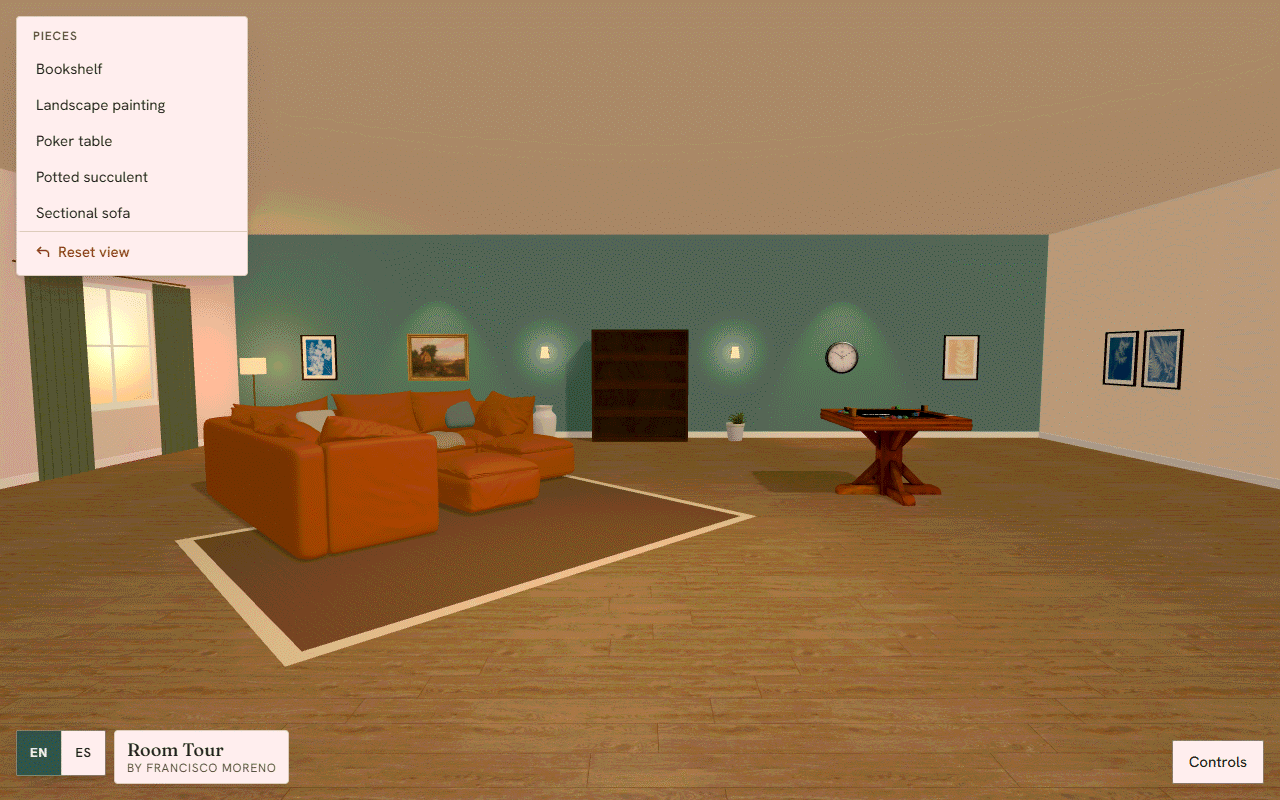
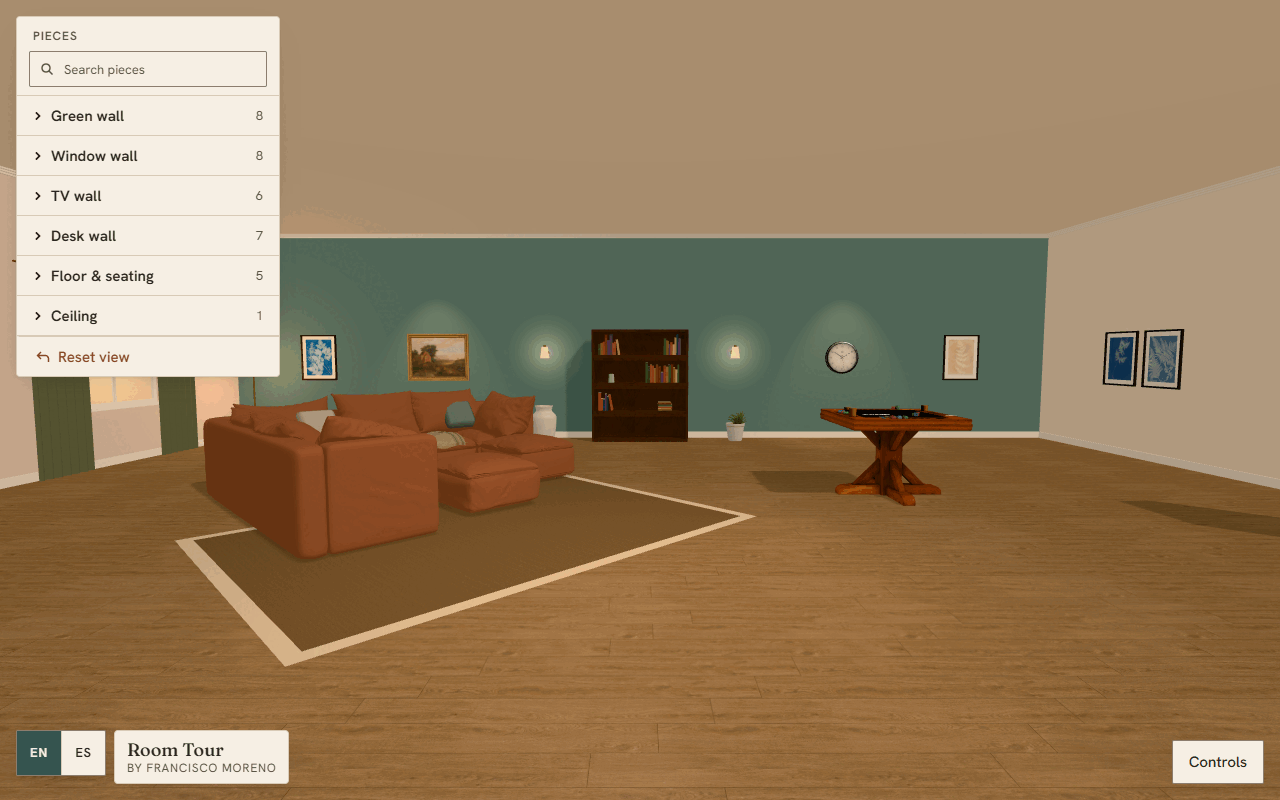
docs(readme): controles, créditos de las 9 piezas Poly Haven y las 4 láminas, cifras de la 004 y media de la sala completa (T-498, T-499)

diff --git a/README.md b/README.md
@@ -1,6 +1,6 @@
 # 3D Room Tour & Descriptions
 
-An interactive 3D living room that runs entirely in the browser. Walk around by clicking the floor, click or tap any piece of furniture to zoom in on it and read about it, and use the keyboard-friendly furniture list if you prefer not to use a pointer.
+An interactive 3D living room that runs entirely in the browser: a 16 × 16 m room with 35 pieces of furniture, decor and fixtures on four walls, the floor and the ceiling. Walk around by clicking the floor, click or tap any piece to zoom in on it and read about it (or switch it on), click a wall to frame it, and use the keyboard-friendly list of pieces if you prefer not to use a pointer.
 
 [![Angular](https://img.shields.io/badge/Angular-21-DD0031?logo=angular&logoColor=white)](https://angular.dev/)
 [![Three.js](https://img.shields.io/badge/Three.js-0.187-000000?logo=threedotjs&logoColor=white)](https://threejs.org/)
@@ -11,7 +11,7 @@ An interactive 3D living room that runs entirely in the browser. Walk around by 
 
 **[Open the live demo](https://room-tour-and-descriptions.vercel.app/)**
 
-![A short tour: clicking the floor moves the camera, clicking the sofa zooms in and shows its description](docs/media/tour.gif)
+![A short tour of the full room: clicking the floor moves the camera, then the TV, sofa, desk and turntable are inspected one after another](docs/media/tour.gif)
 
 |                                             Desktop                                              |                                        Mobile                                        |
 | :----------------------------------------------------------------------------------------------: | :----------------------------------------------------------------------------------: |
@@ -41,28 +41,32 @@ The interface is available in English and Spanish ([Languages](#languages)); her
 ## Features
 
 - **Walk the room**: click or tap the floor and the camera glides there, limited to the room bounds.
-- **Inspect furniture**: click or tap a piece and the camera moves close to it, the piece gets an outline and a description panel opens. Hovering shows which pieces are clickable.
-- **Orbit, pan and zoom** with mouse, touch (one-finger rotate, two-finger pan and pinch) or the arrow keys.
-- **Accessible alternative**: a list of the furniture (plus an _Initial view_ button) works with the keyboard and screen readers; the description panel is announced as a dialog and closes with `Esc`.
-- **Responsive**: the initial framing adapts to portrait screens so all three pieces stay visible on a phone.
-- **Cozy, finished room**: sage accent wall, wall prints, curtains, lamps and soft textiles, with warm light and soft shadows.
+- **Inspect pieces**: click or tap one of the 35 pieces and the camera moves close to it, the piece gets an outline and a description panel opens. Hovering shows which pieces are clickable. A piece that is switched off (a lamp, the TV, the turntable) is switched on directly by the click.
+- **Frame a wall**: click or tap a wall (or the ceiling) and the camera frames it head-on. If a description panel is open it stays open.
+- **Pieces with actions**: the TV runs an art mode that cycles through the cyanotypes and salt prints in the room, the lamps switch on and off, and the turntable spins a record with sound generated in the browser (off by default; no audio files).
+- **Orbit, pan and zoom** with mouse, touch (one-finger rotate, two-finger pan and pinch) or the arrow keys; the wheel zooms toward the pointer.
+- **Accessible alternative**: a searchable list of the pieces, grouped by wall, floor and ceiling (plus a _Reset view_ button), works with the keyboard and screen readers; the description panel is announced as a dialog and closes with `Esc`.
+- **Responsive**: the initial framing adapts to portrait screens, and on a phone the list becomes a compact set of tabs above the room.
+- **Cozy, finished room**: sage accent wall, eight wall prints, curtains, lamps, a TV lounge, a reading corner, a desk and soft textiles, with warm light and soft shadows.
 - **English and Spanish**: detected from the browser and switchable with the EN | ES selector.
 - **Loading and error states**: a progress screen while models download, and clear messages (with a retry button) if WebGL is unavailable, the context is lost or a model fails to load.
-- **Light assets**: the three original models were reduced from about 51 MB to about 2.4 MB, and the whole `src/assets` folder (seven models, textures, fonts, social image) weighs about 3.9 MB (see [Performance](#performance)).
+- **Light assets**: the three original models were reduced from about 51 MB to about 2.4 MB, and the whole `src/assets` folder (sixteen models, textures, fonts, social image) weighs about 5.2 MB (see [Performance](#performance)).
 
 ## Controls
 
-| Input                                       | Action                     |
-| ------------------------------------------- | -------------------------- |
-| Left mouse drag / one finger                | Look around                |
-| Right mouse drag / two fingers / arrow keys | Slide sideways             |
-| Wheel / pinch                               | Zoom                       |
-| Click or tap the floor                      | Walk to that point         |
-| Click or tap a piece of furniture           | Zoom in and read about it  |
-| `Esc`                                       | Close the details panel    |
-| `Home`                                      | Return to the initial view |
+| Input                                       | Action                                                                                                                   |
+| ------------------------------------------- | ------------------------------------------------------------------------------------------------------------------------ |
+| Left mouse drag / one finger                | Look around                                                                                                              |
+| Right mouse drag / two fingers / arrow keys | Slide sideways                                                                                                           |
+| Wheel / pinch                               | Zoom (toward the pointer)                                                                                                |
+| Click or tap the floor                      | Walk to that point                                                                                                       |
+| Click or tap a piece                        | Zoom in and read about it; a piece that is switched off (lamp, TV, turntable) is switched on directly                    |
+| Click or tap a wall or the ceiling          | Frame that surface head-on; an open description panel stays open                                                         |
+| Piece list (keyboard or touch)              | Pick any piece or surface by name, grouped by wall, floor and ceiling; the search box filters it; _Reset view_ goes back |
+| `Esc`                                       | Close the details panel                                                                                                  |
+| `Home`                                      | Return to the initial view                                                                                               |
 
-The **? Help** button in the corner reopens these instructions at any time.
+The **Controls** button in the corner reopens these instructions at any time.
 
 ## Languages
 
@@ -125,8 +129,8 @@ AppComponent
    ├─ ErrorOverlayComponent   WebGL unavailable / context lost
    ├─ ErrorBannerComponent    a model failed to load, with retry
    ├─ HelpPanelComponent      controls for mouse, touch and keyboard
-   ├─ DescriptionPanelComponent  furniture details (dialog, Esc to close)
-   └─ ObjectListComponent     accessible list of furniture + initial view
+   ├─ DescriptionPanelComponent  piece details and actions (dialog, Esc to close)
+   └─ ObjectListComponent     accessible, searchable list of pieces and walls + reset view
 
 Services (providedIn root, idempotent dispose)
   SceneService             renderer, render loop, resize, teardown; coordinates the rest
@@ -137,6 +141,8 @@ Services (providedIn root, idempotent dispose)
   ViewerStateService       signals: load progress/status, error, selected, hovered
 
 config/   scene.config.ts (room, lights, models)  ·  decor.config.ts (decor pieces)
+pieces/   pieces.config.ts (the 35 pieces: positions, sizes, picking boxes)  ·  surfaces.config.ts (walls, ceiling)
+          procedural builders, piece actions, turntable audio (lazy `scene-pieces` chunk)
 i18n/     LocaleService  ·  en.ts / es.ts (all user-facing text)
 ```
 
@@ -147,11 +153,12 @@ src/app/
 ├── components/   UI components
 ├── services/     3D and state services, each with its spec
 ├── config/       scene and decor configuration
+├── pieces/       the 35 pieces of the full room: config, procedural builders, actions, audio, EN and ES text
 ├── i18n/         EN and ES dictionaries and the locale service
 └── interfaces/   shared types
 src/assets/
-├── models/       optimized glTF models (sofa, poker_table, bookshelf, landscape_painting, wall_clock, succulent, ceramic_vase)
-├── textures/     floor, rug, wall print and linen textures (WebP)
+├── models/       sixteen optimized glTF models (sofa, poker_table, bookshelf, four decor pieces and nine Poly Haven pieces)
+├── textures/     floor, rug, the eight wall prints and linen textures (WebP)
 ├── fonts/        Fraunces and Hanken Grotesk (WOFF2) and their OFL license
 └── brand/        favicon, touch icon and social preview image
 docs/             assets pipeline, README images and baseline captures
@@ -160,36 +167,41 @@ docs/             assets pipeline, README images and baseline captures
 ## Technical decisions
 
 - **Zoneless Angular with signals.** The scene is driven by a single `requestAnimationFrame` loop that runs outside Angular, so a frame never triggers change detection; only meaningful state changes (selection, progress, errors) go through signals.
-- **One render loop.** `SceneService` owns the loop and calls `update` on the camera and interaction services each frame. Services never schedule their own animation frames.
+- **One render loop, drawn on demand.** `SceneService` owns the loop and calls `update` on the camera and interaction services each frame. Services never schedule their own animation frames, and a frame is only drawn while something changes (camera motion, a fade, an action), so an idle room costs no GPU time.
 - **Selection by outline.** The selected piece gets cloned back-face meshes as an outline that is disposed on deselection, so repeated clicks never leak GPU resources.
-- **Camera moves to what you click.** Floor clicks teleport with an eased animation clamped to the room bounds; furniture clicks frame the piece.
+- **Camera moves to what you click.** Floor clicks teleport with an eased animation clamped to the room bounds; piece clicks frame the piece and wall clicks frame the wall.
+- **Procedural pieces, loaded lazily.** Pieces without a suitable free model (the TV, desk, turntable, door, cornice and arched print, among others) are built from geometry in a lazy chunk, next to the nine glTF models, so the initial bundle stays small. One configuration file (`pieces.config.ts`) is the only source of placement.
 - **Assets optimized in place.** WebP textures and meshopt-compressed geometry, without KTX2 (no extra transcoder to ship). The originals are kept in git history. See [docs/assets-pipeline.md](docs/assets-pipeline.md) for how to regenerate them.
 - **No UI component library.** The interface is a few small custom components, which keeps the bundle small and the visuals consistent.
 - **Two languages, centralized text.** All user-facing strings live in typed dictionaries in `src/app/i18n/`; Spanish loads on demand, so English users never download it.
 
 ## Performance
 
-Measured on a production build (`npm run build`):
+Measured on a production build (`npm run build`) of the full room:
 
-| Metric                         | Value                                     |
-| ------------------------------ | ----------------------------------------- |
-| Initial JavaScript bundle      | 886.94 kB raw, about 202.5 kB transferred |
-| 3D models (all seven)          | 3,100,101 B (about 3.1 MB)                |
-| Textures (room, prints, linen) | 687,388 B (about 0.7 MB)                  |
-| Fonts                          | 106,659 B (about 0.1 MB)                  |
-| `src/assets` in total          | 4,044,814 B (about 3.9 MB)                |
+| Metric                         | Value                                      |
+| ------------------------------ | ------------------------------------------ |
+| Initial JavaScript bundle      | 886.57 kB raw, about 206.43 kB transferred |
+| Renders while the room is idle | 0 (render on demand)                       |
+| 3D models (all sixteen)        | 3,897,720 B (about 3.9 MB)                 |
+| Textures (room, prints, linen) | 1,003,256 B (about 1.0 MB)                 |
+| Fonts                          | 106,659 B (about 0.1 MB)                   |
+| `src/assets` in total          | 5,158,301 B (about 5.2 MB)                 |
 
-The three original models went from about 51 MB to about 2.4 MB. Per-model sizes before and after are in [docs/assets-pipeline.md](docs/assets-pipeline.md).
+The three original models went from about 51 MB to about 2.4 MB. The nine Poly Haven models of the full room weigh 797,619 B in total and the four new prints 315,868 B. Per-model sizes before and after are in [docs/assets-pipeline.md](docs/assets-pipeline.md).
 
-The Spanish dictionary (3.71 kB) and the decor builder (8.30 kB) load as separate chunks. Other measurements on the final build:
+The piece builders and models of the full room (`scene-pieces`, 46.20 kB raw, 15.56 kB transferred), the decor builder (11.39 kB) and the English and Spanish piece text (8.58 kB and 9.69 kB) load as separate chunks; the Spanish interface dictionary (4.39 kB) loads only when needed.
 
-| Metric                                                   | Value                                                                   |
-| -------------------------------------------------------- | ----------------------------------------------------------------------- |
-| Frame time, mobile CPU throttled 4×                      | 14.05 ms median (gate: under 16.7 ms); desktop 1.75 ms                  |
-| Lighthouse accessibility (EN and ES, mobile and desktop) | 100 in all four runs                                                    |
-| Lighthouse performance                                   | 28 mobile / 56 desktop in EN, 27 / 54 in ES (throttled, shared machine) |
-| Colour contrast (WCAG AA)                                | 12 of 12 token pairs pass                                               |
-| Lights                                                   | 7, only one casts shadows                                               |
+Other measurements on the final build:
+
+| Metric                                                   | Value                                                                                |
+| -------------------------------------------------------- | ------------------------------------------------------------------------------------ |
+| Frame time, mobile CPU throttled 4×, initial view        | 15.90 ms median (gate: under 16.7 ms; measured on a loaded machine); desktop 2.20 ms |
+| Frame time, mobile CPU throttled 4×, view B              | 5.30 ms median; desktop 0.60 ms                                                      |
+| Draw calls per frame, initial view                       | 163 (199 before the full room)                                                       |
+| Lighthouse accessibility (EN and ES, mobile and desktop) | 100 in all four runs, with the TV details panel open                                 |
+| Colour contrast (WCAG AA)                                | 23 of 23 elements pass; lowest ratio 5.58:1                                          |
+| Lights                                                   | no new lights; one new shadow caster                                                 |
 
 ### How the assets are optimized
 
@@ -209,32 +221,47 @@ The three furniture models come from [Sketchfab](https://sketchfab.com/) and are
 
 License terms: <https://sketchfab.com/licenses>. The models were resized, texture-compressed and quantized for the web; the geometry and design are the authors' work.
 
-### Poly Haven (decor pieces and room textures)
+### Poly Haven (models and room textures)
 
-The decor and the floor and rug textures come from [Poly Haven](https://polyhaven.com/) and are released under CC0. CC0 does not require attribution; they are credited here as a courtesy.
+The thirteen glTF models other than the three Sketchfab ones, and the floor and rug textures, come from [Poly Haven](https://polyhaven.com/) and are released under CC0. CC0 does not require attribution; they are credited here as a courtesy. Nine of the models belong to the full room; the other four were added earlier as decor.
 
-| Piece                  | Author                            | Source                                                       |
-| ---------------------- | --------------------------------- | ------------------------------------------------------------ |
-| Fancy Picture Frame 01 | Rob Tuytel, Rico Cilliers         | [Poly Haven](https://polyhaven.com/a/fancy_picture_frame_01) |
-| Wall Clock             | PierreB3D                         | [Poly Haven](https://polyhaven.com/a/wall_clock)             |
-| Potted Plant 04        | James Ray Cock                    | [Poly Haven](https://polyhaven.com/a/potted_plant_04)        |
-| Ceramic Vase 02        | James Ray Cock                    | [Poly Haven](https://polyhaven.com/a/ceramic_vase_02)        |
-| Laminate Floor 02      | Dario Barresi, Charlotte Baglioni | [Poly Haven](https://polyhaven.com/a/laminate_floor_02)      |
-| Poly Wool Herringbone  | colormass, Rico Cilliers          | [Poly Haven](https://polyhaven.com/a/poly_wool_herringbone)  |
+| Piece                     | Used for                       | Author                            | Source                                                          | License |
+| ------------------------- | ------------------------------ | --------------------------------- | --------------------------------------------------------------- | ------- |
+| Mid Century Lounge Chair  | Reading chair                  | Kuutti Siitonen                   | [Poly Haven](https://polyhaven.com/a/mid_century_lounge_chair)  | CC0     |
+| Side Table 01             | Table beside the reading chair | James Ray Cock                    | [Poly Haven](https://polyhaven.com/a/side_table_01)             | CC0     |
+| Modern Arm Chair 01       | Armchair in the TV lounge      | Vibrant Nordic                    | [Poly Haven](https://polyhaven.com/a/modern_arm_chair_01)       | CC0     |
+| Modern Coffee Table 01    | Coffee table                   | Amin                              | [Poly Haven](https://polyhaven.com/a/modern_coffee_table_01)    | CC0     |
+| Vintage Wooden Drawer 01  | Sideboard with records         | James Ray Cock                    | [Poly Haven](https://polyhaven.com/a/vintage_wooden_drawer_01)  | CC0     |
+| Painted Wooden Chair 02   | Desk chair                     | Kirill Sannikov                   | [Poly Haven](https://polyhaven.com/a/painted_wooden_chair_02)   | CC0     |
+| Wooden Display Shelves 01 | Display shelves                | James Ray Cock                    | [Poly Haven](https://polyhaven.com/a/wooden_display_shelves_01) | CC0     |
+| Painted Wooden Cabinet 02 | Tall cabinet                   | Kirill Sannikov                   | [Poly Haven](https://polyhaven.com/a/painted_wooden_cabinet_02) | CC0     |
+| Modern Ceiling Lamp 01    | Pendant lamp                   | James Ray Cock                    | [Poly Haven](https://polyhaven.com/a/modern_ceiling_lamp_01)    | CC0     |
+| Fancy Picture Frame 01    | Landscape painting frame       | Rob Tuytel, Rico Cilliers         | [Poly Haven](https://polyhaven.com/a/fancy_picture_frame_01)    | CC0     |
+| Wall Clock                | Wall clock                     | PierreB3D                         | [Poly Haven](https://polyhaven.com/a/wall_clock)                | CC0     |
+| Potted Plant 04           | Succulent                      | James Ray Cock                    | [Poly Haven](https://polyhaven.com/a/potted_plant_04)           | CC0     |
+| Ceramic Vase 02           | Ceramic vase                   | James Ray Cock                    | [Poly Haven](https://polyhaven.com/a/ceramic_vase_02)           | CC0     |
+| Laminate Floor 02         | Floor texture                  | Dario Barresi, Charlotte Baglioni | [Poly Haven](https://polyhaven.com/a/laminate_floor_02)         | CC0     |
+| Poly Wool Herringbone     | Rug texture                    | colormass, Rico Cilliers          | [Poly Haven](https://polyhaven.com/a/poly_wool_herringbone)     | CC0     |
+
+The models were resized, texture-compressed and quantized for the web; the geometry and design are the authors' work.
 
 ### Wall prints and fabric
 
-The four botanical prints hanging in the room are public-domain works, reproduced from [Wikimedia Commons](https://commons.wikimedia.org/) (resized and converted to WebP). The linen texture is CC0.
+The eight prints hanging in the room, which the TV also cycles through in art mode, are public-domain works, reproduced from [Wikimedia Commons](https://commons.wikimedia.org/) (resized and converted to WebP). The linen texture is CC0.
 
-| Piece                         | Author                   | Date    | Source and license                                                                                                                     |
-| ----------------------------- | ------------------------ | ------- | -------------------------------------------------------------------------------------------------------------------------------------- |
-| _Spiraea aruncus (Tyrol)_     | Anna Atkins              | 1851–54 | [Commons](<https://commons.wikimedia.org/wiki/File:Spiraea_aruncus_(Tyrol)_MET_DT5664.jpg>), cyanotype, The Met, CC0                   |
-| _Osmunda regalis (Australia)_ | Anna Atkins              | c. 1850 | [Commons](<https://commons.wikimedia.org/wiki/File:Anna_Atkins_-_Osmunda_Rigalis_(Australia)_-_Google_Art_Project.jpg>), public domain |
-| _Pteris aquilina_             | Anna Atkins              | c. 1850 | [Commons](https://commons.wikimedia.org/wiki/File:Anna_Atkins_-_Pteris_aquilina_-_Google_Art_Project.jpg), cyanotype, public domain    |
-| _Felce_                       | William Henry Fox Talbot | 1839    | [Commons](https://commons.wikimedia.org/wiki/File:Felce_MET_DP202191.jpg), salted paper print, The Met, CC0                            |
-| Rough Linen (fabric texture)  | colormass, Rico Cilliers |         | [Poly Haven](https://polyhaven.com/a/rough_linen), CC0                                                                                 |
+| Piece                               | Author                   | Date      | Source and license                                                                                                                                    |
+| ----------------------------------- | ------------------------ | --------- | ----------------------------------------------------------------------------------------------------------------------------------------------------- |
+| _Spiraea aruncus (Tyrol)_           | Anna Atkins              | 1851–54   | [Commons](<https://commons.wikimedia.org/wiki/File:Spiraea_aruncus_(Tyrol)_MET_DT5664.jpg>), cyanotype, The Met, CC0                                  |
+| _Osmunda regalis (Australia)_       | Anna Atkins              | c. 1850   | [Commons](<https://commons.wikimedia.org/wiki/File:Anna_Atkins_-_Osmunda_Rigalis_(Australia)_-_Google_Art_Project.jpg>), public domain                |
+| _Pteris aquilina_                   | Anna Atkins              | c. 1850   | [Commons](https://commons.wikimedia.org/wiki/File:Anna_Atkins_-_Pteris_aquilina_-_Google_Art_Project.jpg), cyanotype, public domain                   |
+| _Felce_                             | William Henry Fox Talbot | 1839      | [Commons](https://commons.wikimedia.org/wiki/File:Felce_MET_DP202191.jpg), salted paper print, The Met, CC0                                           |
+| _Asplenium Braziliense, S. America_ | Anna Atkins              | 1854      | [Commons](https://commons.wikimedia.org/wiki/File:Anna_Atkins_-_Asplenium_Braziliense,_S._America_-_Google_Art_Project.jpg), cyanotype, public domain |
+| _Foreign Ferns_                     | Anna Atkins              | 1845/1855 | [Commons](https://commons.wikimedia.org/wiki/File:Anna_Atkins_-_Foreign_Ferns_-_Google_Art_Project.jpg), cyanotype, public domain                     |
+| _New Zealand_ (fern)                | Anna Atkins              | 1848/1859 | [Commons](https://commons.wikimedia.org/wiki/File:Anna_Atkins_-_New_Zealand_-_Google_Art_Project.jpg), cyanotype, public domain                       |
+| _Carex (America)_                   | Anna Atkins              | 1848/1853 | [Commons](<https://commons.wikimedia.org/wiki/File:Anna_Atkins_-_Carix_(America)_-_Google_Art_Project.jpg>), cyanotype, public domain                 |
+| Rough Linen (fabric texture)        | colormass, Rico Cilliers |           | [Poly Haven](https://polyhaven.com/a/rough_linen), CC0                                                                                                |
 
-Atkins and Fox Talbot died in 1871 and 1877, so their work is in the public domain; the Met releases its scans under CC0. None of the assets in the project require attribution (there are no CC-BY pieces); they are credited as a courtesy. Sources, exact files and the commands that reproduce the textures are in [docs/assets-pipeline.md](docs/assets-pipeline.md).
+Atkins and Fox Talbot died in 1871 and 1877, so their work is in the public domain; the Met releases its scans under CC0. The years are the ones on each Commons file page. None of the assets in the project require attribution (there are no CC-BY pieces); they are credited as a courtesy. Sources, exact files and the commands that reproduce the textures are in [docs/assets-pipeline.md](docs/assets-pipeline.md).
 
 ### Fonts
 
